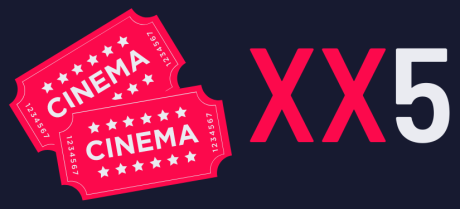
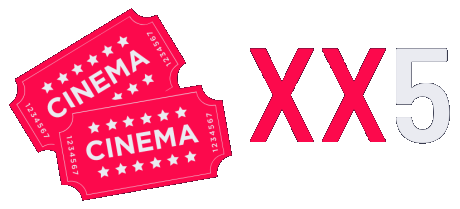
Update READEME.md file and changed the background of a picture

diff --git a/cinema_app.py b/cinema_app.py
@@ -136,7 +136,7 @@ def LoginFrame():
     login_frame.pack()
 
     # Logo & Title
-    label_gambar = tk.Label(login_frame, image=xx5_img, border=0).pack()
+    label_gambar = tk.Label(login_frame, image=xx5_img, border=0, bg="#171a30").pack()
     heading = tk.Label(login_frame, text="Login", fg="#fc094c", bg="#171a30", font=("Segoe UI", 23, "bold")).pack(pady=10)
 
     # Email

diff --git a/README.md b/README.md
@@ -1,19 +1,21 @@
-# Tugas Besar 1 Pengenalan Komputasi ITB 2022 - Cinema XX5
-## Anggota Kelompok:
+# **Cinema XX5**
+<center><img width=50% src="images/xx5.png"> </center>
+
+## **Deskripsi:**
+Repositori ini berisi program berupa aplikasi untuk memesan tiket bioskop Cinema XX5. Program ini dibuat dalam rangka tugas Besar 1 Pengenalan Komputasi ITB 2022.
+## **Anggota Kelompok:**
 1. Dewantoro Triatmojo / 19622152
 2. Randy Verdian / 19622202
-3. Aira Ardistya Akbarsyah/ 16522062
-4. Berto Togatorop/ 19622192
-## Deskripsi:
-Repositori ini berisi program berupa aplikasi untuk memesan tiket bioskop Cinema XX5.
-## Fitur:
-- Login dan register
-- Top up saldo
-- Riwayat pemesanan
-- Daftar film yang sedang dan akan tayang
-- Informasi movie
-- Pemesanan film pada tempat, tanggal, jam tertentu
-## Cara Compile:
+3. Aira Ardistya Akbarsyah / 16522062
+4. Berto Togatorop / 19622192
+## **Fitur:**
+- Login dan register 🔐
+- Top up saldo 💵
+- Riwayat pemesanan 📃
+- Daftar film yang sedang dan akan tayang 🍿📽
+- Informasi film yang sedang dan akan tayang 🎬
+- Pemesanan film pada tempat, tanggal, dan jam tertentu 🎟
+## **Cara Compile:**
 ```
 python cinema_app.py
 ```
